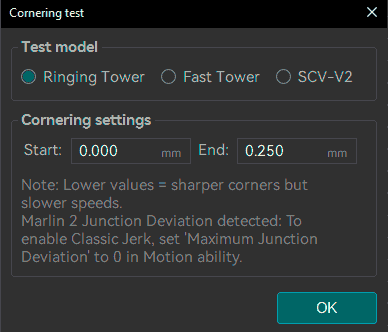
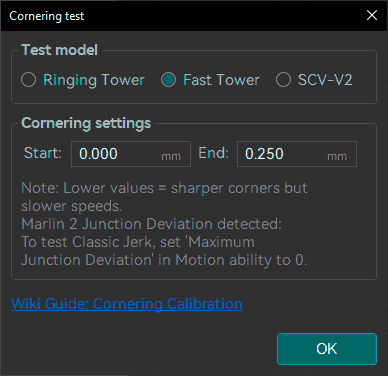
Improved wiki

diff --git a/doc/calibration/cornering-calib.md b/doc/calibration/cornering-calib.md
@@ -19,7 +19,8 @@ This test will be set detect automatically your printer firmware type and will a
 - RepRap: [Maximum instantaneous speed changes](https://docs.duet3d.com/User_manual/Reference/Gcodes#m566-set-allowable-instantaneous-speed-change)
 
 > [!NOTE]
-> This calibration guide focuses on Marlin 2 firmware with Junction Deviation enabled but can be adapted for other firmware types. Each firmware may have different terminologies and settings for cornering control.
+> This calibration example uses Junction Deviation as an example. The process is similar for Jerk calibration; just read the Jerk values instead of JD values.  
+> JD values are between `0.0` and `0.3` (in mm) while Jerk values are usually between `1` and `20` or higher (in mm/s).
 
 1. Pre-requisites:
    1. If using Marlin 2 firmware, Check if your printer has Junction Deviation enabled. Look for `Junction deviation` in the printer's advanced settings.
@@ -29,10 +30,13 @@ This test will be set detect automatically your printer firmware type and will a
    3. Use an opaque, high-gloss filament to make ringing more visible.
 2. Open the Cornering test.  
    ![jd_first_menu](https://github.com/SoftFever/OrcaSlicer/blob/main/doc/images/JunctionDeviation/jd_first_menu.png?raw=true)
-   1. Measure the maximum height when the corners start losing sharpness and read the Cornering/Jerk/JunctionDeviation value set at that point in OrcaSlicer.  
+   1. In this first approximation, set a wide range of Start and End values.
+      - If you don't see any loss of quality, increase the End value and retry.
+      - If you do see a loss of quality, measure the maximum height when the corners start losing sharpness and read the Cornering/Jerk/JunctionDeviation value set at that point in OrcaSlicer.  
       ![jd_first_print_measure](https://github.com/SoftFever/OrcaSlicer/blob/main/doc/images/JunctionDeviation/jd_first_print_measure.jpg?raw=true)  
       ![jd_first_slicer_measure](https://github.com/SoftFever/OrcaSlicer/blob/main/doc/images/JunctionDeviation/jd_first_slicer_measure.png?raw=true)
-   2. Print a new calibration tower with a maximum set near the point where corners start losing sharpness.
+   2. Print a new calibration tower with a maximum set near the point where corners start losing sharpness.  
+      **RECOMMENDED:** Use the *Ringing Tower* test model to more easily visualize the jerk limit.
    3. Print the second Cornering test with the new maximum value.  
       ![jd_second_menu](https://github.com/SoftFever/OrcaSlicer/blob/main/doc/images/JunctionDeviation/jd_second_menu.png?raw=true)
    4. Measure the maximum height when the corners start losing sharpness and read the Cornering/Jerk/JunctionDeviation value set at that point in OrcaSlicer.  
@@ -41,7 +45,8 @@ This test will be set detect automatically your printer firmware type and will a
 3. Save the settings
    - Into your OrcaSlicer printer profile (**RECOMMENDED**):
      1. Go to Printer settings → Motion ability → Jerk limitation:
-     2. Set your maximum Jerk X and Y or Junction Deviation values.
+     2. Set your maximum Jerk X and Y or Junction Deviation values.  
+        ![jd_printer_jerk_limitation](https://github.com/SoftFever/OrcaSlicer/blob/main/doc/images/JunctionDeviation/jd_printer_jerk_limitation.png?raw=true)
    - Directly into your printer firmware:
      - Restore your 3D Printer settings to avoid keeping high acceleration and jerk values used for the test.
 
